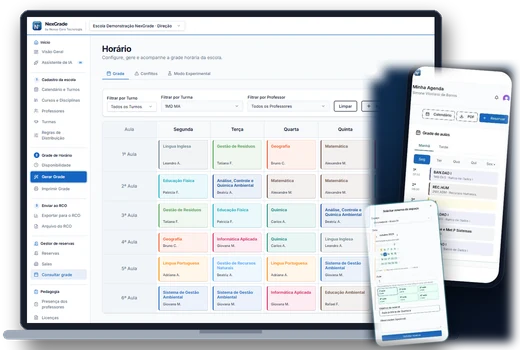
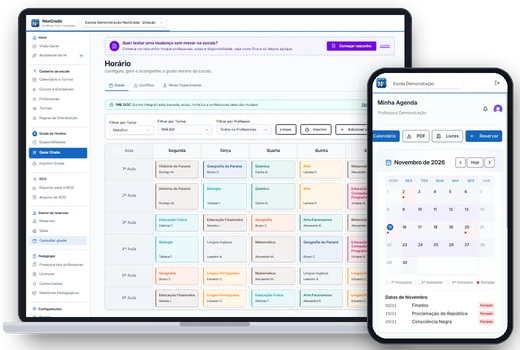
Sistemas como "Ativo" e imagem nova do NexGrade
- NexGrade, Nex Reserva + Nex Cantina e Yardflow aparecem como "Ativo"
  (bolinha verde) na home e nas páginas de cada um; a base do chat acompanha.
- Imagem do topo da página do NexGrade refeita com o app atual (menu "RCO",
  rascunho) e o celular com a Minha Agenda, sem nome de pessoa nem de colégio real.

diff --git a/index.html b/index.html
@@ -116,8 +116,8 @@
       <div class="status-strip" id="iniciativas">
         <div class="status-item">
           <div class="status-item-top">
-            <span class="status-dot pilot"></span>
-            <span class="status-label">Em implantação</span>
+            <span class="status-dot online"></span>
+            <span class="status-label">Ativo</span>
           </div>
           <div class="status-item-name">NexGrade</div>
           <div class="status-item-desc">Gestão de horário escolar</div>
@@ -125,15 +125,15 @@
         <div class="status-item">
           <div class="status-item-top">
             <span class="status-dot online"></span>
-            <span class="status-label">Em produção</span>
+            <span class="status-label">Ativo</span>
           </div>
           <div class="status-item-name">Nex Reserva + Nex Cantina</div>
           <div class="status-item-desc">Programa educacional</div>
         </div>
         <div class="status-item">
           <div class="status-item-top">
-            <span class="status-dot pilot"></span>
-            <span class="status-label">Piloto ativo</span>
+            <span class="status-dot online"></span>
+            <span class="status-label">Ativo</span>
           </div>
           <div class="status-item-name">Yardflow</div>
           <div class="status-item-desc">Monitoramento de pátio industrial</div>
@@ -158,7 +158,7 @@
 
       <div class="initiative-grid">
         <a href="nexgrade.html" class="initiative-card card-nexgrade">
-          <span class="status-label">Produto · Em implantação</span>
+          <span class="status-label">Produto · Ativo</span>
           <h3 style="display:flex; align-items:center; gap:12px;"><img src="img/nexgrade/nexgrade-icone.webp" alt="" width="40" height="40" style="width:40px; height:40px; border-radius:10px;">NexGrade</h3>
           <p>
             Geração de horário escolar com hora-atividade alinhada à tabela
@@ -169,7 +169,7 @@
         </a>
 
         <a href="programa-educacional.html" class="initiative-card card-programa">
-          <span class="status-label">Soluções · Em produção</span>
+          <span class="status-label">Soluções · Ativo</span>
           <h3>Soluções Educacionais</h3>
           <p>
             Nex Reserva e Nex Cantina: sistemas reais em produção, eliminando
@@ -180,7 +180,7 @@
         </a>
 
         <a href="yardflow.html" class="initiative-card card-yardflow">
-          <span class="status-label">Projeto · Piloto ativo</span>
+          <span class="status-label">Projeto · Ativo</span>
           <h3>Yardflow</h3>
           <p>
             Monitoramento de caminhões em pátio industrial, da chegada à

diff --git a/programa-educacional.html b/programa-educacional.html
@@ -61,7 +61,7 @@
   <section class="page-hero">
     <div class="container">
       <div class="breadcrumb"><a href="index.html">Início</a> / Soluções Educacionais</div>
-      <span class="pill"><span class="status-dot online"></span> Em produção</span>
+      <span class="pill"><span class="status-dot online"></span> Ativo</span>
       <h1 style="margin-top: 18px;">Tecnologia que estrutura, gestão que transforma.</h1>
       <p>
         Sistemas de alta disponibilidade projetados para substituir rotinas
@@ -79,7 +79,7 @@
       </div>
 
       <div class="initiative-card product-block" style="margin-bottom: 24px;">
-        <span class="status-label" style="color: var(--verde-click-claro); margin-bottom: 14px;">Nex Reserva · Em produção</span>
+        <span class="status-label" style="color: var(--verde-click-claro); margin-bottom: 14px;">Nex Reserva · Ativo</span>
         <h3 style="font-size: 1.6rem; margin-bottom: 6px;">Nex Reserva</h3>
         <p style="font-size: 0.95rem; font-weight: 600; color: var(--texto-muted); margin-bottom: 14px;">Gestão Inteligente de Espaços e Laboratórios Educacionais</p>
         <p style="font-size: 1rem;">
@@ -103,7 +103,7 @@
       </div>
 
       <div class="initiative-card product-block">
-        <span class="status-label" style="color: var(--verde-click-claro); margin-bottom: 14px;">Nex Cantina · Em produção</span>
+        <span class="status-label" style="color: var(--verde-click-claro); margin-bottom: 14px;">Nex Cantina · Ativo</span>
         <h3 style="font-size: 1.6rem; margin-bottom: 6px;">Nex Cantina</h3>
         <p style="font-size: 0.95rem; font-weight: 600; color: var(--texto-muted); margin-bottom: 14px;">Eficiência, Agilidade e Gestão Financeira para a Cantina Escolar</p>
         <p style="font-size: 1rem;">

diff --git a/nexgrade.html b/nexgrade.html
@@ -285,7 +285,7 @@
       <div>
       <div class="breadcrumb"><a href="index.html">Início</a> / NexGrade</div>
       <img src="img/nexgrade/nexgrade-icone.webp" alt="Logo NexGrade" width="88" height="88" style="display:block; width:88px; height:88px; border-radius:20px; margin:6px 0 18px; box-shadow:0 8px 24px rgba(0,0,0,.35);">
-      <span class="pill"><span class="status-dot pilot"></span> Em implantação em três colégios estaduais</span>
+      <span class="pill"><span class="status-dot online"></span> Ativo em colégios estaduais do Paraná</span>
       <span class="eyebrow" style="margin-top: 18px;">Sistema de grade horária escolar · compatível com o RCO</span>
       <h1 style="margin-top: 0;">A plataforma que organiza a operação pedagógica do início ao fim.</h1>
       <p>
@@ -298,10 +298,10 @@
         <a href="#resultados" class="btn btn-ghost">Como reduz as janelas</a>
       </div>
       </div>
-      <img class="hero-img" src="img/nexgrade/hero-sistema.webp"
-           srcset="img/nexgrade/hero-sistema-520.webp 520w, img/nexgrade/hero-sistema.webp 1040w"
+      <img class="hero-img" src="img/nexgrade/hero-sistema.webp?v=2"
+           srcset="img/nexgrade/hero-sistema-520.webp?v=2 520w, img/nexgrade/hero-sistema.webp?v=2 1040w"
            sizes="(max-width: 960px) 92vw, 580px" width="1040" height="700"
-           alt="NexGrade no notebook, com a grade horária da turma, e no celular, com a Minha Agenda do professor e a reserva de espaços">
+           alt="NexGrade no notebook, com a grade horária da turma, e no celular, com a Minha Agenda do professor e o calendário escolar">
     </div>
   </section>
 

diff --git a/yardflow.html b/yardflow.html
@@ -60,7 +60,7 @@
   <section class="page-hero">
     <div class="container">
       <div class="breadcrumb"><a href="index.html">Início</a> / Yardflow</div>
-      <span class="pill"><span class="status-dot pilot"></span> Piloto ativo · Indústria automotiva</span>
+      <span class="pill"><span class="status-dot online"></span> Ativo · Indústria automotiva</span>
       <h1 style="margin-top: 18px;">Saber onde está cada caminhão do pátio, sem rádio e sem ligação.</h1>
       <p>
         Yardflow acompanha a localização de caminhões dentro do pátio em tempo

diff --git a/chat-api/knowledge.md b/chat-api/knowledge.md
@@ -13,13 +13,13 @@ protótipos de vitrine — entregamos tecnologia em produção, pronta
 para gerar resultados.
 Falar com a gente
 Ver o que já rodamos
-Em implantação
+Ativo
 NexGrade
 Gestão de horário escolar
-Em produção
+Ativo
 Nex Reserva + Nex Cantina
 Programa educacional
-Piloto ativo
+Ativo
 Yardflow
 Monitoramento de pátio industrial
 O que fazemos
@@ -29,19 +29,19 @@ performance em produção — sustentando redes de ensino com mais de
 1.500 alunos, otimizando processos em grandes montadoras do setor
 automotivo e garantindo integrações que funcionam de verdade na
 ponta.
-Produto · Em implantação
+Produto · Ativo
 NexGrade
 Geração de horário escolar com hora-atividade alinhada à tabela
 da SEED-PR e grade exportada em arquivo compatível com o RCO,
 inclusive turmas com trio e período integral.
 Conhecer o NexGrade →
-Soluções · Em produção
+Soluções · Ativo
 Soluções Educacionais
 Nex Reserva e Nex Cantina: sistemas reais em produção, eliminando
 processos manuais em uma escola estadual do Paraná com mais de
 1.500 alunos.
 Conhecer as soluções →
-Projeto · Piloto ativo
+Projeto · Ativo
 Yardflow
 Monitoramento de caminhões em pátio industrial, da chegada à
 portaria até a doca — piloto em operação em uma grande montadora.
@@ -110,7 +110,7 @@ Falar com a gente
 ## NexGrade (/nexgrade.html)
 
 / NexGrade
-Em implantação em três colégios estaduais
+Ativo em colégios estaduais do Paraná
 A plataforma que organiza a operação pedagógica do início ao fim.
 Grade horária otimizada, arquivo da grade compatível com o RCO, agenda do professor
 no celular, reserva de espaços e um assistente de IA, em um só sistema,
@@ -285,7 +285,7 @@ manuais por processos inteligentes, otimizar o tempo das equipes e
 conectar toda a comunidade escolar com segurança e usabilidade.
 Nossos Softwares em Produção
 Sistemas de verdade, rodando em escolas de verdade
-Nex Reserva · Em produção
+Nex Reserva · Ativo
 Nex Reserva
 Gestão Inteligente de Espaços e Laboratórios Educacionais
 O Nex Reserva foi criado para encerrar a era dos cadernos de
@@ -304,7 +304,7 @@ Desenvolvido em Node.js, TypeScript e PostgreSQL para garantir alta velocidade e
 Node.js + TypeScript
 Drizzle ORM
 PostgreSQL
-Nex Cantina · Em produção
+Nex Cantina · Ativo
 Nex Cantina
 Eficiência, Agilidade e Gestão Financeira para a Cantina Escolar
 Desenhado para suportar o fluxo intenso de grandes unidades
@@ -340,7 +340,7 @@ Falar com a gente
 ## Yardflow (/yardflow.html)
 
 / Yardflow
-Piloto ativo · Indústria automotiva
+Ativo · Indústria automotiva
 Saber onde está cada caminhão do pátio, sem rádio e sem ligação.
 Yardflow acompanha a localização de caminhões dentro do pátio em tempo
 real e avisa o motorista quando ele é chamado para a doca — piloto em
